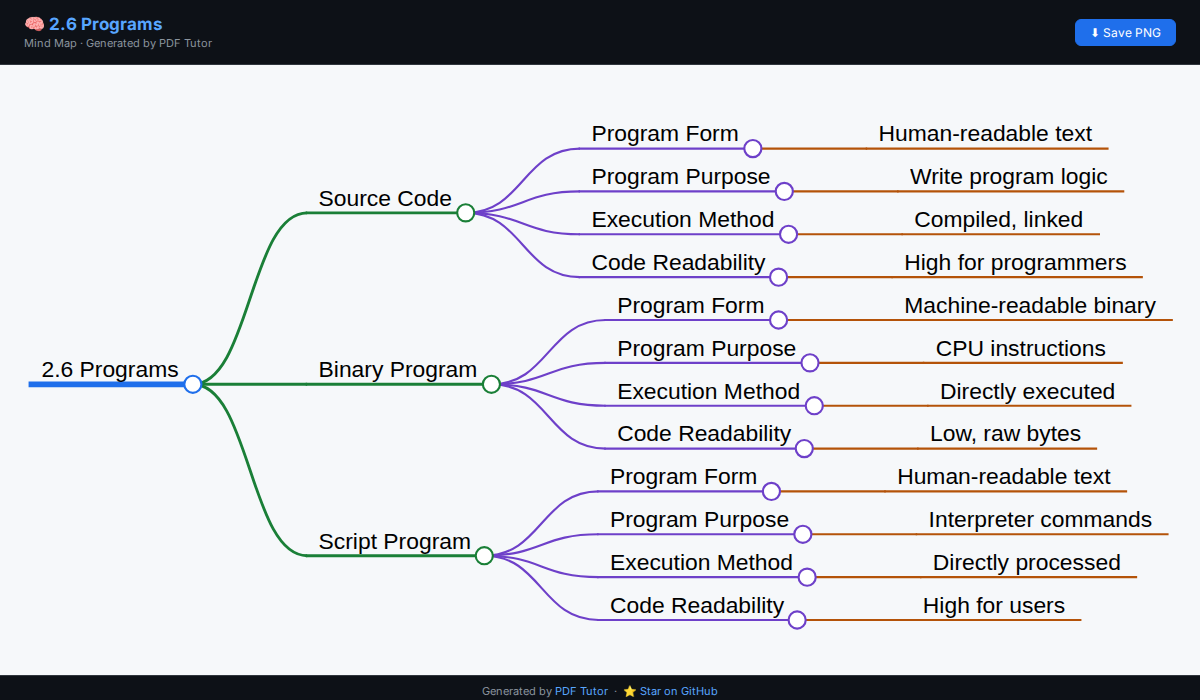
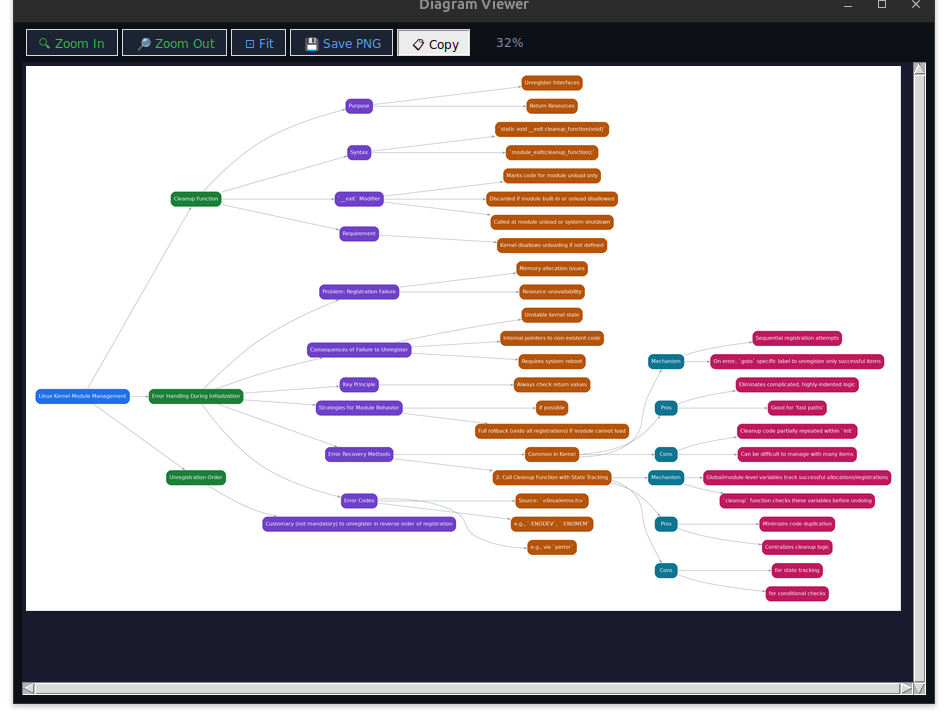
Fix diagram-viewer freeze on copy; filter non-text Gemini models; update README
- Copy-to-clipboard froze the whole window: xclip forks a clipboard daemon
  that inherited subprocess capture_output pipes and never closed them, so
  subprocess.run blocked forever on the UI thread. Redirect std streams to
  DEVNULL + add a 5s timeout so xclip detaches and the window stays responsive.
- Gemini model list now excludes image/embedding/tts/vision/aqa models. These
  support generateContent but have free-tier quota 0 (e.g. gemini-2.5-flash-image),
  which caused the new 'quota exceeded / limit: 0' errors when accidentally picked.
- README: show the interactive diagram viewer + offline mindmap screenshot.

diff --git a/pdf_tutor/ui/app.py b/pdf_tutor/ui/app.py
@@ -1541,14 +1541,25 @@ document.getElementById('btnPng').onclick = () => {{
             tmp.close()
             pil_img.save(tmp.name)
             try:
+                # xclip forks a background daemon to serve the clipboard. With
+                # capture_output it inherits our pipes and never closes them, so
+                # subprocess.run blocks FOREVER on the UI thread and the window
+                # won't close. Redirect all std streams to DEVNULL so the daemon
+                # detaches cleanly; add a timeout as a safety net.
                 subprocess.run(["xclip", "-selection", "clipboard",
                                 "-t", "image/png", "-i", tmp.name],
-                               check=True, capture_output=True)
+                               check=True, timeout=5,
+                               stdin=subprocess.DEVNULL,
+                               stdout=subprocess.DEVNULL,
+                               stderr=subprocess.DEVNULL)
                 self._status("Diagram copied to clipboard", GREEN)
-            except (FileNotFoundError, subprocess.CalledProcessError):
+            except (FileNotFoundError, subprocess.CalledProcessError, subprocess.TimeoutExpired):
                 try:
-                    subprocess.run(["xdg-open", tmp.name], capture_output=True)
-                    self._status(f"Opened in viewer (install xclip for clipboard)", WARN)
+                    subprocess.run(["xdg-open", tmp.name], timeout=5,
+                                   stdin=subprocess.DEVNULL,
+                                   stdout=subprocess.DEVNULL,
+                                   stderr=subprocess.DEVNULL)
+                    self._status("Opened in viewer (install xclip for clipboard)", WARN)
                 except Exception:
                     messagebox.showinfo("Save location", f"PNG saved to:\n{tmp.name}", parent=win)
 
@@ -1696,10 +1707,16 @@ document.getElementById('btnPng').onclick = () => {{
                 with urllib.request.urlopen(req, timeout=15) as r:
                     data = json.loads(r.read().decode())
                 if prov["id"] == "gemini":
-                    # Gemini returns different shape: {"models": [{"name": "models/gemini-..."}, ...]}
-                    models = sorted([m["name"].replace("models/", "")
-                                      for m in data.get("models", [])
-                                      if "generateContent" in m.get("supportedGenerationMethods", [])])
+                    # Gemini returns: {"models": [{"name": "models/gemini-..."}, ...]}
+                    # Exclude image-gen / embedding / tts / vision / aqa models —
+                    # they support generateContent but are NOT free-tier text models
+                    # (e.g. gemini-2.5-flash-image has free-tier quota 0 and errors).
+                    _exclude = ("image", "embedding", "tts", "vision", "aqa")
+                    models = sorted([
+                        m["name"].replace("models/", "")
+                        for m in data.get("models", [])
+                        if "generateContent" in m.get("supportedGenerationMethods", [])
+                        and not any(x in m["name"].lower() for x in _exclude)])
                 else:
                     models = sorted([m["id"] for m in data.get("data", [])])
                 if not models: